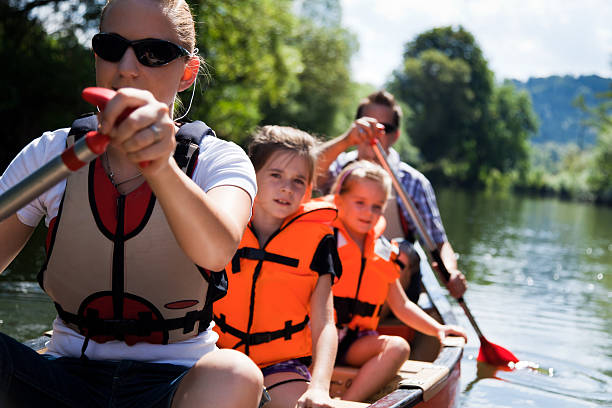
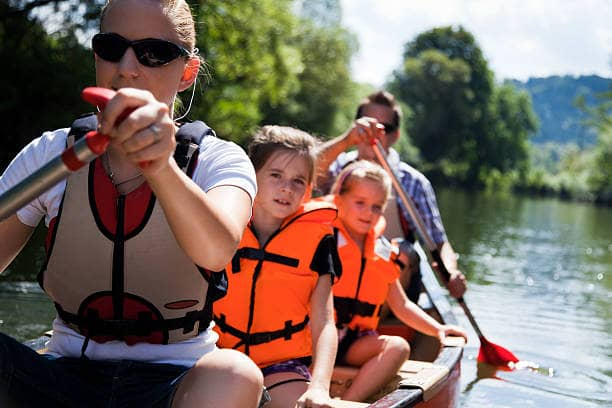
blog images size reduction

diff --git a/cata-vino.html b/cata-vino.html
@@ -1,5 +1,5 @@
 <!DOCTYPE html>
-<html lang="en">
+<html lang="es">
 <head>
     <meta charset="UTF-8">
     <meta http-equiv="X-UA-Compatible" content="IE=edge">
